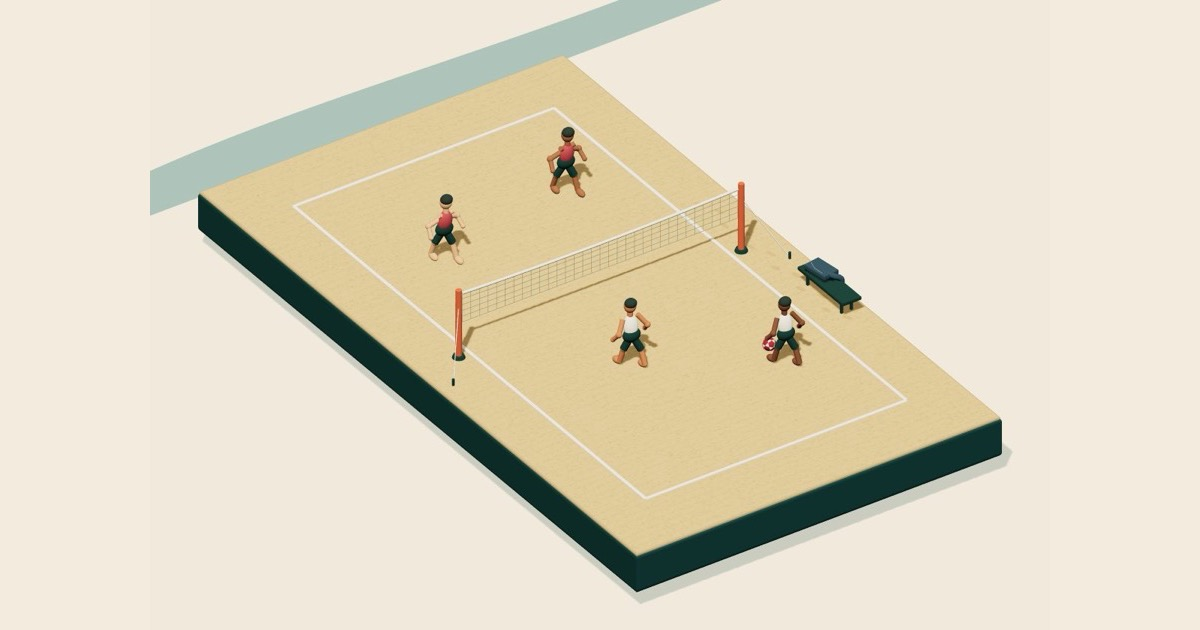
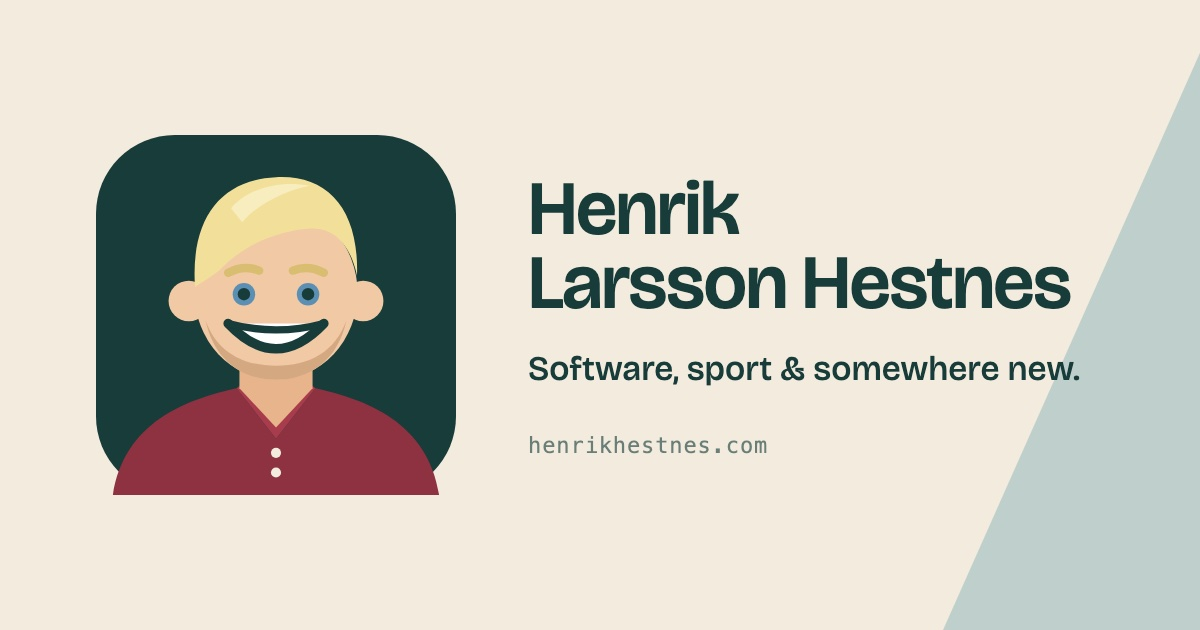
Link preview card: portrait, name and tagline
og.jpg is now a composed 1200 x 630 card instead of the letterboxed court
still. tools/og-card.html is its source.

diff --git a/tools/og-card.html b/tools/og-card.html
@@ -1,0 +1,16 @@
+<!doctype html><html><head><meta charset="utf-8"><style>
+@font-face{font-family:"Bricolage";src:url(../fonts/BricolageGrotesque.woff2) format("woff2")}
+html,body{margin:0;width:1200px;height:630px;background:#F2EBDD;overflow:hidden}
+.wrap{position:relative;width:1200px;height:630px;display:flex;align-items:center;gap:72px;padding:0 80px 0 96px;box-sizing:border-box;font-family:"Bricolage",sans-serif;color:#173C3A}
+.me{width:360px;height:360px;flex:none;display:block}
+.text{flex:1}
+h1{margin:0;font-size:76px;line-height:0.98;font-weight:600;letter-spacing:-0.02em}
+h1 span{display:block}
+p.tag{margin:28px 0 0;font-size:34px;font-weight:500;color:#173C3A}
+p.url{margin:44px 0 0;font-family:ui-monospace,Menlo,monospace;font-size:22px;color:rgba(23,60,58,.62);letter-spacing:.04em}
+.band{position:absolute;right:-140px;top:-200px;width:260px;height:1100px;background:#BFD0CC;transform:rotate(24deg);z-index:0}
+.me,.text{position:relative;z-index:1}
+</style></head><body><div class="wrap"><div class="band"></div>
+<img class="me" src="../favicon.svg">
+<div class="text"><h1><span>Henrik</span><span>Larsson Hestnes</span></h1><p class="tag">Software, sport &amp; somewhere new.</p><p class="url">henrikhestnes.com</p></div>
+</div></body></html>

diff --git a/index.html b/index.html
@@ -15,7 +15,7 @@
   <meta property="og:image:type" content="image/jpeg">
   <meta property="og:image:width" content="1200">
   <meta property="og:image:height" content="630">
-  <meta property="og:image:alt" content="A miniature futevôlei court with four players, net and bench.">
+  <meta property="og:image:alt" content="Cartoon portrait of Henrik Larsson Hestnes next to his name and the line Software, sport & somewhere new.">
   <meta name="twitter:card" content="summary_large_image">
   <meta name="twitter:title" content="Henrik Larsson Hestnes">
   <meta name="twitter:description" content="Norwegian software engineer living in Brazil. Software, sport & somewhere new.">

diff --git a/README.md b/README.md
@@ -26,7 +26,7 @@ Ball radii remain the same at rest and in motion: 0.20 scene units for futevôle
 - `shark-motion.js`: deterministic motion sampling, roster definitions and short sequence durations.
 - `index.html` / `style.css`: content and responsive presentation. The full name appears in the hero, document title and metadata.
 - `poster.jpg`: a 1200 × 840 still of the current futevôlei scene.
-- `og.jpg`: the same still letterboxed to 1200 × 630 on paper, for link previews (Messenger, WhatsApp, Slack, X).
+- `og.jpg`: the 1200 × 630 link-preview card (Messenger, WhatsApp, Slack, X): the cartoon portrait, name and tagline on paper. Regenerate by screenshotting `tools/og-card.html` at 1200 × 630.
 - `favicon.svg`, `favicon.png`, `apple-touch-icon.png`: a flat cartoon portrait on ink; the PNGs cover Safari and iOS home screens.
 - `snow-print.svg`: original winter illustration with the burgundy-and-white ball.
 - `fonts/`: Bricolage Grotesque and its license.
